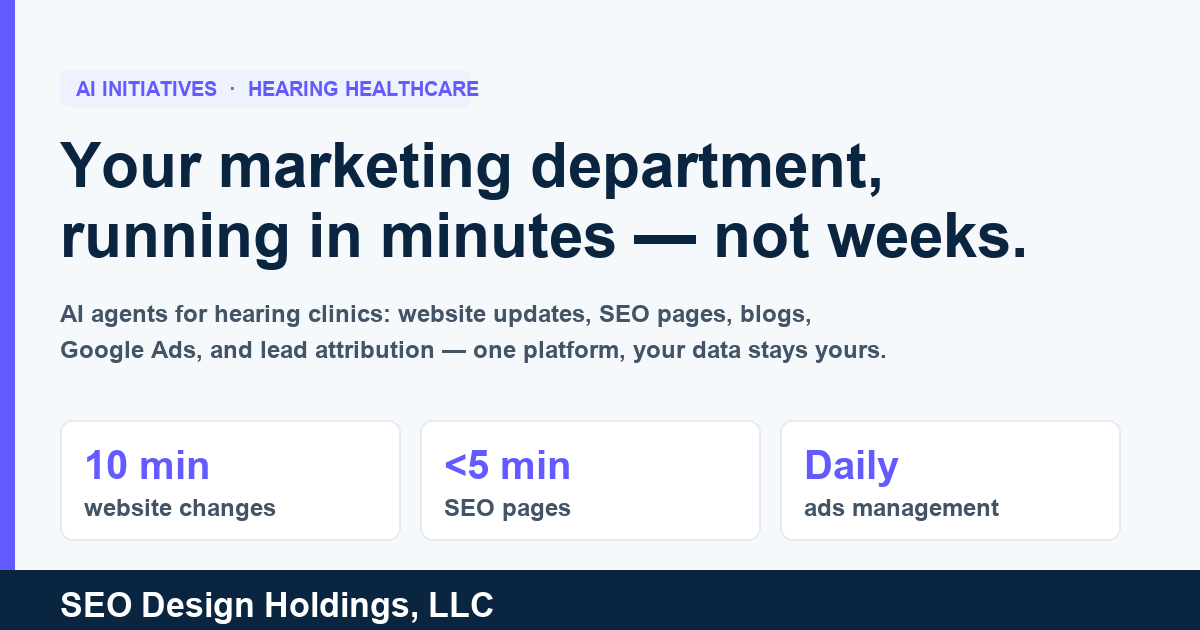
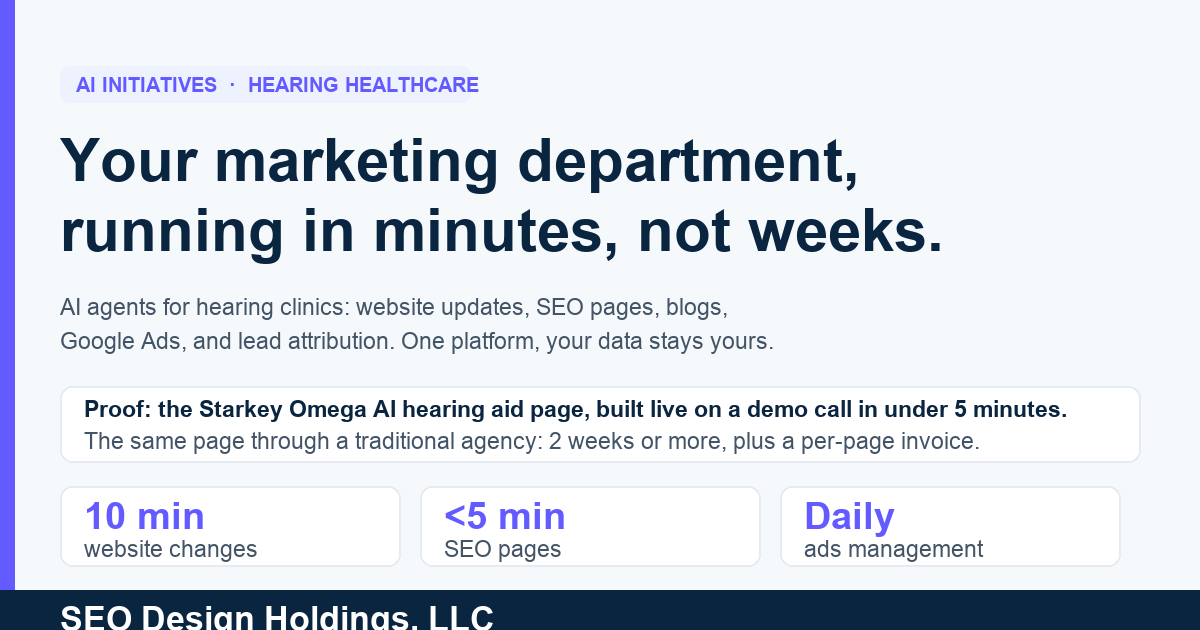
Remove em dashes; add Omega AI live-page proof section + OG update

diff --git a/index.html b/index.html
@@ -3,11 +3,11 @@
 <head>
 <meta charset="UTF-8">
 <meta name="viewport" content="width=device-width, initial-scale=1.0">
-<title>AI for Hearing Clinics — SEO Design Holdings, LLC</title>
-<meta name="description" content="One-pager: AI agents that run website updates, SEO, blogging, Google Ads, and lead attribution for hearing clinics — in minutes, not weeks.">
+<title>AI for Hearing Clinics - SEO Design Holdings, LLC</title>
+<meta name="description" content="One-pager: AI agents that run website updates, SEO, blogging, Google Ads, and lead attribution for hearing clinics - in minutes, not weeks.">
 <meta name="robots" content="noindex,nofollow">
 <meta property="og:title" content="AI for Hearing Clinics">
-<meta property="og:description" content="Website updates in minutes, not weeks. SEO pages, blogs, and ads managed daily by AI agents built for hearing clinics.">
+<meta property="og:description" content="Website updates in minutes, not weeks. The Starkey Omega AI page: built live in under 5 minutes. A traditional agency: 2+ weeks.">
 <meta property="og:type" content="website">
 <meta property="og:url" content="https://seo-design-holdings-onepager.vercel.app">
 <meta property="og:image" content="https://seo-design-holdings-onepager.vercel.app/og-image.png">
@@ -76,7 +76,7 @@ footer b{color:var(--ink)}
 
 <div class="hero"><div class="wrap">
   <div class="k">For Hearing Clinic Owners &amp; Alliance Networks</div>
-  <h1>Your marketing department,<br>running in minutes — not weeks.</h1>
+  <h1>Your marketing department,<br>running in minutes, not weeks.</h1>
   <p class="lede">AI agents that update your website, build SEO pages, publish blogs, manage your Google Ads daily, and show you exactly where every lead came from. Built for hearing clinics. Owned by you, not an agency.</p>
 </div></div>
 
@@ -85,13 +85,13 @@ footer b{color:var(--ink)}
   <p class="sub">If you've worked with a traditional agency, this will sound familiar.</p>
   <div class="g3">
     <div class="card"><h3>"Two weeks to change a paragraph"</h3><p>Every website edit is a ticket. Emails back and forth, invoices for revisions, and your new product page launches after the season is already over.</p></div>
-    <div class="card"><h3>"SEO reports, no results"</h3><p>Monthly PDFs full of rankings and jargon. No new pages, no content velocity, no honest attribution — just retainer invoices.</p></div>
+    <div class="card"><h3>"SEO reports, no results"</h3><p>Monthly PDFs full of rankings and jargon. No new pages, no content velocity, no honest attribution - just retainer invoices.</p></div>
     <div class="card"><h3>"Ad spend on autopilot"</h3><p>Campaigns set once and left to drift. No daily monitoring, no negative keyword pruning, no pausing what isn't converting. Budget leaks quietly.</p></div>
   </div>
 </div></section>
 
 <section><div class="wrap">
-  <h2>AI vs. traditional agency — head to head</h2>
+  <h2>AI vs. traditional agency - head to head</h2>
   <p class="sub">Same clinic, same goals. The difference is who's doing the work and how fast.</p>
   <div class="table-scroll"><table>
     <tr><th>What you need</th><th>Traditional agency</th><th class="ai">AI agents (ours)</th></tr>
@@ -99,8 +99,8 @@ footer b{color:var(--ink)}
     <tr><td>New SEO landing page (FAQs, schema, structure)</td><td>Days to weeks, $500–$1,500/page</td><td class="ai">Under 5 minutes, page included</td></tr>
     <tr><td>Blog content backed by search data</td><td>1–2 posts/month, generic topics</td><td class="ai">Data-driven posts from real keyword research, on schedule</td></tr>
     <tr><td>Google Ads management</td><td>Set-and-forget, reviewed monthly</td><td class="ai">Monitored daily: keywords mined, negatives updated, losers paused after 3 days</td></tr>
-    <tr><td>Knowing where a lead came from</td><td>"Trust us" — fragmented reports</td><td class="ai">One dashboard: calls, chats, forms, campaigns, and cost per lead</td></tr>
-    <tr><td>Your data and your assets</td><td>Hosted on their accounts</td><td class="ai">Sovereign — your site, your data, your hardware. You can leave anytime and keep everything.</td></tr>
+    <tr><td>Knowing where a lead came from</td><td>"Trust us" - fragmented reports</td><td class="ai">One dashboard: calls, chats, forms, campaigns, and cost per lead</td></tr>
+    <tr><td>Your data and your assets</td><td>Hosted on their accounts</td><td class="ai">Sovereign - your site, your data, your hardware. You can leave anytime and keep everything.</td></tr>
   </table></div>
 </div></section>
 
@@ -125,23 +125,28 @@ footer b{color:var(--ink)}
 
 <section><div class="wrap">
   <h2>Proof it works</h2>
-  <div class="stat-row">
-    <div class="stat"><div class="n">&lt; 5 min</div><div class="l">A complete, SEO-optimized hearing aid product page — live example: Starkey Omega AI page built for a working clinic site</div></div>
-    <div class="stat"><div class="n">10 min</div><div class="l">A website change that takes a traditional agency two weeks</div></div>
-    <div class="stat"><div class="n">Daily</div><div class="l">Ads monitored, keywords mined, non-converting campaigns paused — not monthly, daily</div></div>
+  <p class="sub">Built live on a call with a Starkey hearing professional. A complete product page for the new Starkey Omega AI hearing aid, created in under five minutes - start to finish, on a real clinic website. A traditional agency quotes two weeks or more for the same page.</p>
+  <div class="g2">
+    <div class="card"><h3>Starkey Omega AI product page</h3><p><b>Live right now</b> on a working hearing clinic's website. SEO structure, FAQs, schema, and full product content - built during the demo call, in under 5 minutes.</p><a class="sample" style="display:inline-block;margin-top:10px;font-size:13px;font-weight:700;color:var(--accent)" href="https://www.eartohearonline.com/hearing-aids/starkey/omega-ai/" target="_blank" rel="noopener">View the live page</a></div>
+    <div class="card"><h3>The agency version of the same page</h3><p>Project scoping, design ticket, content draft, revisions, build, QA - <b>two weeks or more</b>, plus a per-page invoice. And the next new hearing aid launch waits just as long, every time.</p></div>
+  </div>
+  <div class="stat-row" style="margin-top:14px">
+    <div class="stat"><div class="n">&lt; 5 min</div><div class="l">The Starkey Omega AI page, live on a clinic website, built during a demo call</div></div>
+    <div class="stat"><div class="n">2+ weeks</div><div class="l">The same page through a traditional agency, with a per-page invoice</div></div>
+    <div class="stat"><div class="n">Daily</div><div class="l">Ads monitored, keywords mined, non-converting campaigns paused - not monthly, daily</div></div>
   </div>
 </div></section>
 
 <section><div class="wrap">
   <div class="cta">
     <h2>Want to see it on your clinic's website?</h2>
-    <p>We're selecting five clinics for a 90-day pilot — before/after snapshots, full transparency, your data stays yours. Ask for the live demo: we'll build a page for a hearing aid you sell while you watch.</p>
+    <p>We're selecting five clinics for a 90-day pilot - before/after snapshots, full transparency, your data stays yours. Ask for the live demo: we'll build a page for a hearing aid you sell while you watch.</p>
     <a class="btn" href="mailto:Joshua@SEODesignLab.com?subject=AI%20Pilot%20for%20Hearing%20Clinics">Request the Live Demo</a>
   </div>
 </div></section>
 
 <footer><div class="wrap">
-  <b>SEO Design Holdings, LLC</b> — AI initiatives for hearing healthcare. Live demo &amp; pilot inquiries: Joshua@SEODesignLab.com
+  <b>SEO Design Holdings, LLC</b> - AI initiatives for hearing healthcare. Live demo &amp; pilot inquiries: Joshua@SEODesignLab.com
 </div></footer>
 </body>
 </html>
